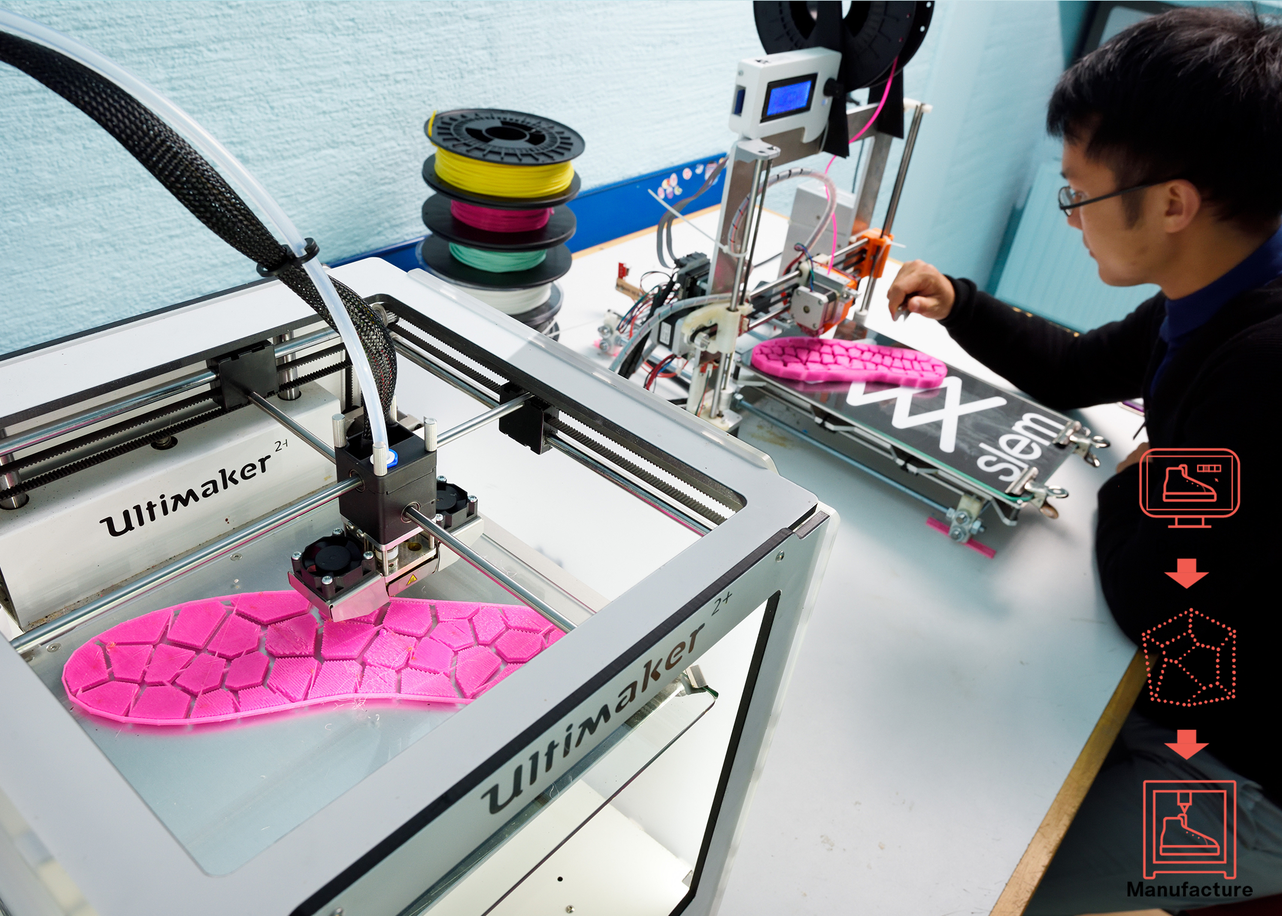
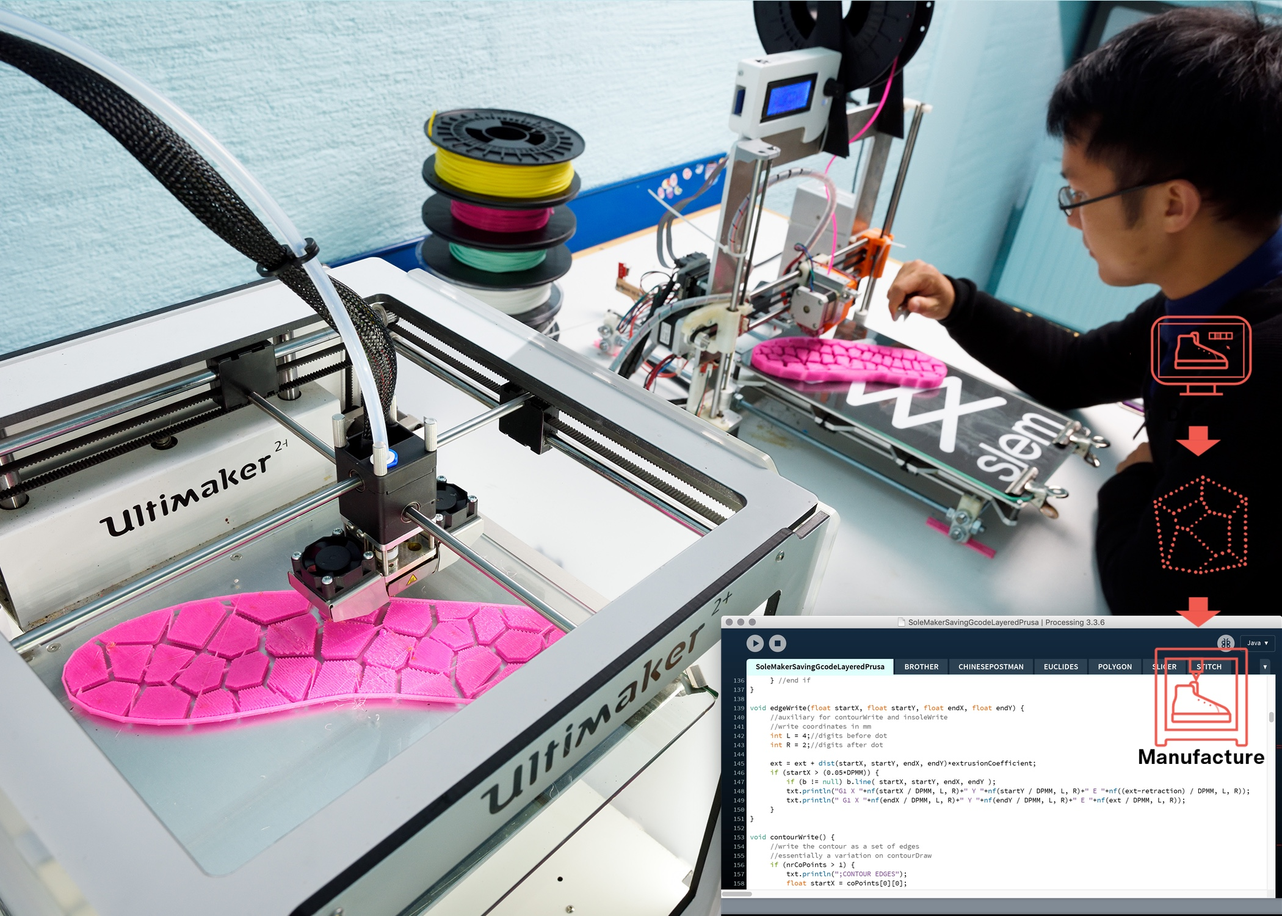
Submitted Camera Ready

Changed region(s): [[0.5571, 0.46, 1.0, 1.0], [0.8976, 0.3373, 0.9905, 0.4293]]

diff --git a/text_body.tex b/text_body.tex
@@ -66,7 +66,7 @@ We hope that the challenges uncovered and learnings developed during these 4 pro
 \label{fig:ChallengesLearnings}
 \end{figure*}
 
-From the four projects carried out we formed an understanding of the complex system of encoding data and encoding materials that were needed to close the loop of iterative personalization.  Each project was built on the previous one to result in a full loop of iterative personalization. (The projects were actually iterations building upon each other, but we refer to them as `projects' to avoid confusion with ``iterative personalizaion''.)  Project 1 developed a 4D foot scanner to encode a footstep into parameters related to size and flexibility. Project 2 took the footstep parameters and negotiated them with the design considerations from bespoke shoemaking. Project 3 moved all of the software to the web to encode the data obtained over time, thus allowing the creation of data trails for one or multiple shoes. Nonetheless, it required significant software rewrites. Project 4 redesigned the shoe to encode use data for future shoes. What follows is a detailed description of how the challenges and learnings developed in each project. In order to make the knowledge gathered understandable and transferable, the main highlights are summarized as challenges and learnings in table 1.
+From the four projects carried out we formed an understanding of the complex system of encoding data and encoding materials that were needed to close the loop of iterative personalization.  Each project was built on the previous one to result in a full loop of iterative personalization. (The projects were actually iterations building upon each other, but we refer to them as `projects' to avoid confusion with ``iterative personalizaion''.)  Project 1 developed a 4D foot scanner to encode a footstep into parameters related to size and flexibility. Project 2 took the footstep parameters and negotiated them with the design considerations from bespoke shoemaking in code using no 3d models other than gCode simulation. Project 3 moved all of the software to the web to encode the data obtained over time, thus allowing the creation of data trails for one or multiple shoes. Nonetheless, it required significant software rewrites. Project 4 redesigned the shoe to encode use data for future shoes. What follows is a detailed description of how the challenges and learnings developed in each project. In order to make the knowledge gathered understandable and transferable, the main highlights are summarized as challenges and learnings in table 1.
 
 \subsection{Project 1: Encoding a Footstep as Data}
 
@@ -109,7 +109,7 @@ We learned that designers need to look at data from multiple scans, shoe iterati
 \subsection{Project 2: Encoding a Material Shoe}
 
 To generate a shoe from parametric data, we started with our previous work on algorithmic methods for generating 3D printed shoe soles \cite{Feijs2016} and added parameters for some of the design considerations identified in ``Towards 4D Printed Ultra Personalized Shoes'' \cite{nachtigall2018towards}. Significant advances were made to our software \cite{Feijs2015} to make the algorithms generate the shoe soles with encoded parametric data and adapt the comfort, balance (flexibility), and robustness to the user. Two digital fabrication specialists worked with a computer scientist to allow changing the density of each  tread and the space between those treads of the sole independently. A tread is a single area of a sole, much like a tire tread.
-No off the shelf software was used. Instead we made our own software to generate 3D printer gCode, laser cutting .svg's and computerized embroidery DST files. Our previous first hand hybrid craft experience drove us to create code \cite{Feijs2016} that controlled the digital fabrication technologies used whenever possible. For example, we built and modified several Prusa i3 3D printers to achieve full shoe size while using commercially available 3D printers to understand the subtleties of printing flexible materials and make structures that behaved in specific ways (see fig 4). More than 270 samples were created to achieve wearable shoes like those seen in figure 1B,C,D. 
+No off the shelf software or 3D modeling was used. Instead we made our own software to generate 3D printer gCode, laser cutting .svg's and computerized embroidery DST files. Our previous first hand hybrid craft experience drove us to create code \cite{Feijs2016} that controlled the digital fabrication technologies used whenever possible. For example, we built and modified several Prusa i3 3D printers to achieve full shoe size while using commercially available 3D printers to understand the subtleties of printing flexible materials and make structures that behaved in specific ways (see fig 4). More than 270 samples were created to achieve wearable shoes like those seen in figure 1B,C,D. 
 
 
 \subsubsection{Challenge 1 Adapting generative algorithms}
@@ -130,7 +130,7 @@ We developed a layered structure that easily could be adapted in density like th
 
 \begin{figure}
 \includegraphics[width=.5\textwidth]{Printing}
-\caption{4D pritnting pesonailzed shoe soles using the SoleMaker software and data from project 1. Photo by Bart van Overbeeke}
+\caption{4D pritnting personailzed shoe soles using direct gCode in the SoleMaker software and data from project 1.  Photo by Bart van Overbeeke}
 \label{fig:Project2}
 \end{figure}
 
@@ -247,23 +247,22 @@ We see many kinds of quality and precision, not only in the encoded material but
 Iterative personalization requires that the system is trained to be better over each version, just like user statistics improve software in each version. This is an evolutionary system that requires software and algorithms to be trained regularly. The iterative personalization loop is also a feedback loop where we can tell from the data if our data profile of the shoe is correct. Not only can we compare shoes, the encoded data from analysis and profiling is ripe for machine learning. Not only can we compare each shoe version to the previous one. We can compare similar size and pressure patterns over time, and the ideal vs actual shoe that was made to name to name a few. As the database grows with multiple users and multiple shoe versions, it is clear that self-directed machine learning will become a key tool in dealing with the complexity of the data.  
 
 \subsection{The Data/Material Relationship}
-In working over two years to encode materials and data for iterative personalization we noted the data \& material relationships changed. In the beginning, the materials we were designing with were the physical filament fed into the 3D Printer. As we came to be familiar with the idiosyncrasies of the material (every color of filament is different, the data from the footscan is a temporal composite), tools (3D printers are susceptible to ambient temperature, humidity, time of day, electric line tension…), and techniques something magic happened. The algorithms used to encode the design characteristics and sensing became really important. The project members began to speak of the algorithms as if they were the material. Not using 3D files, but rather generating gCode and seeing it for the first time on the printer prevented abstraction by a screen. We found ourselves voraciously adding code libraries to control the data just slightly differently. We found our team at the white board rearranging the pressure calculations to make the pressure sensing slightly more sensitive to high impact pressure for someone who is running. Several of these instances changed the design language of the lab we worked in. Hybrid crafting resulted in a new discipline of designing data and material relationships over time. 
+In working over two years to encode materials and data for iterative personalization we noted the data \& material relationships changed. In the beginning, the materials we were designing with were the physical filament fed into the 3D Printer. As we came to be familiar with the idiosyncrasies of the material (every color of filament is different, the data from the footscan is a temporal composite), tools (3D printers are susceptible to ambient temperature, humidity, time of day, electric line tension...), and techniques something magic happened. The algorithms used to encode the design characteristics and sensing became really important. The project members began to speak of the algorithms as if they were the material. Not using 3D files, but rather generating gCode and seeing it for the first time on the printer prevented abstraction by a screen. We found ourselves voraciously adding code libraries to control the data just slightly differently. We found our team at the white board rearranging the pressure calculations to make the pressure sensing slightly more sensitive to high impact pressure for someone who is running. Several of these instances changed the design language of the lab we worked in. Hybrid crafting resulted in a new discipline of designing data and material relationships over time. 
 
 The sense of time that iterative personalization changed our role as designer. Depending upon the moment of the lifetime of the shoe we found our activities and perceptions changing. Time is a key element in what we made. The temporal form of the shoe depended upon where we were at in the UPPS cycle. Sometimes the 'shoe' was pure data, some times it was material. Developing the skills to see the shoe as both unlocked the possibilities of iterative personalization. Data allowed us to move through the temporal form of the shoe and capture moments of that lifetime. 
 
 \section{Discussion, Conclusions and Future~Work}
 In this paper, we reported on four iterative projects that form a system of iterative personalization. We contribute with lessons learned and techniques for traversing the encoding of data and materials. Our exploratory work aims to enrich the possibilities for makers, designers, engineers and researchers who are developing data-material relationships, especially as a hybrid craft. We extend the capabilities of prior work into material programming \cite{Vallgarda2016} and contribute to the understanding of encoding materials designed with generative algorithms from encoded data. Along the journey, we show new tools and techniques for computational design emerging and a trans-disciplinary understanding of data and materials developing in design. 
 
-Iterative personalization is a making something more personalized by using a data trail created by previous from generations. Iterative personalization might be seen as combining the iterative improvement for design synthesis by Autodesk Research \cite{Nourbakhsh2016} with Vallg\aa rda et al's ideas of temporal design \cite{Vallgarda2015} as iterations over a lifetime.  This opens up a door to not only our sneakers being increasingly personalized every time they become worn out, but that the sneakers encode data for all our shoes including dress shoes, running shoes, high heels and everyday sneakers. we look forward to encoding the data \& materials for such a closet. 
+Iterative personalization is a making something more personalized by using a data trail created by previous from generations. Iterative personalization might be seen as combining the iterative improvement for design synthesis by Autodesk Research \cite{Nourbakhsh2016} with Vallg\aa rda et al's ideas of temporal design \cite{Vallgarda2015} as iterations over a lifetime.  This opens up a door to not only our sneakers being increasingly personalized every time they become worn out, but that these sneakers encode data for all of our shoes including dress shoes, running shoes, high heels and other sneakers. We look forward to one day encoding the data and materials for such a closet. 
 
 Iterative Personalization shows the potential of Ultra-Personalization. 
 This research demonstrates that the Ultra-Personalized Product Service (UPPS) system is beneficial to the design of systems of iterative personalization. This is achieved by encoding data and encoding materials in ways that remember how the thing was made and used. We show how a product service system can support iterative personalization by subdividing the complexity of the lifetime. Moreover, the collection of data across the lifetime of the shoe opens up possibilities for  post-human concerns such as sustainability, not only over the lifetime of a shoe, but in multiple shoe over multiple lifetimes. The ability to use data as a designer provides new frontiers for hybrid craft, allowing designers to consider the why of the object, not just the how. 
 
 Iterative personalization also builds on the idea of the research product\cite{Odom2016}. Not only does each shoe become a research product for successive shoes, there is a potential that thousands of shoes becomes a research product informing all the other shoes that follow, and perhaps more than show. Our everyday things may combine data across large numbers of artifacts informing each other. New potential for hybrid craft emerge as new outliers and expressions emerge from the data, creating new material geometries. The role of the designer becomes more active in the process as the behavior of individuals changes over time. The cycle in some ways resembles software development working with more software developers in hybrid craft may open more possibilities. 
 
-Understanding and designing the data \& material relationship over the lifetime of an object tells us new things about materials, use, and people in their natural setting. 
+Understanding and designing the data and material relationship over the lifetime of an object tells us new things about materials, use, and people in their natural setting. 
 The insights gained during this research are only a first step into encoded material and data for iterative personalization. We hope to create several more iterations of the shoes for individual wearers and understand the limits of iterative personalization in shoes. We also hope others will join us to explore the data \& material relationship to iteratively personalize of all kinds everyday things.  
-
 
 \begin{acks}
 We would like to thank Loe Feijs, Stephan Wensveen, Admar Schoonen, Bart Pruijmboom, Eva Klabalova, Henry Lin, Erwin Hoogerwoord, Fiore Basile, Nik van Sleeuwen, Rueben Lekkerkerker, Sigridur Helga Hauksdottir, Annaluisa Franco, Koen van Os, Kristina Andersen, the members of the TU/e Wearable Senses Lab, the members of the TU/e /dSearch Lab, the members of the UdK Berlin Design Research Lab , the students and staff of The Footwearist, the members of the H2020 ArcInTexETN, and many others for the support, dedication, and long hours committed to these projects. Special thanks to the Dutch Creative Industries Design United for their generous support. This project has received funding from the European Union's Horizon 2020 research and innovation programme under the Marie Sklodowska-Curie grant agreement No. 642328.
